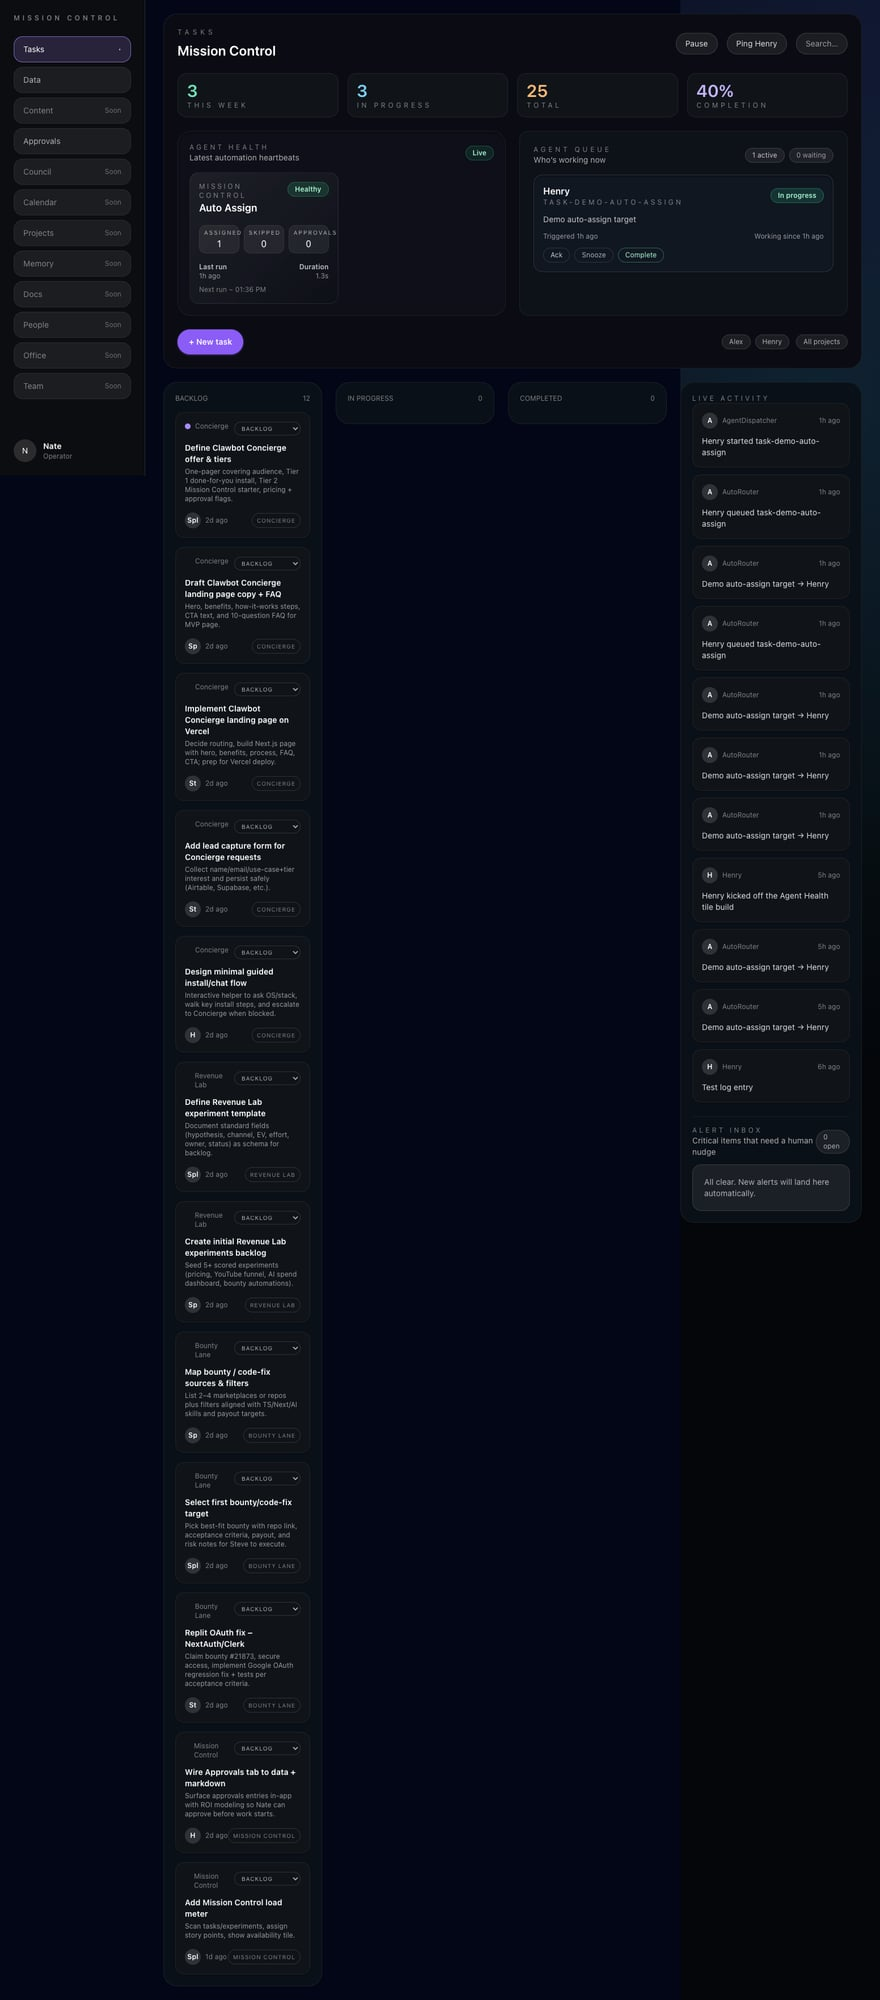
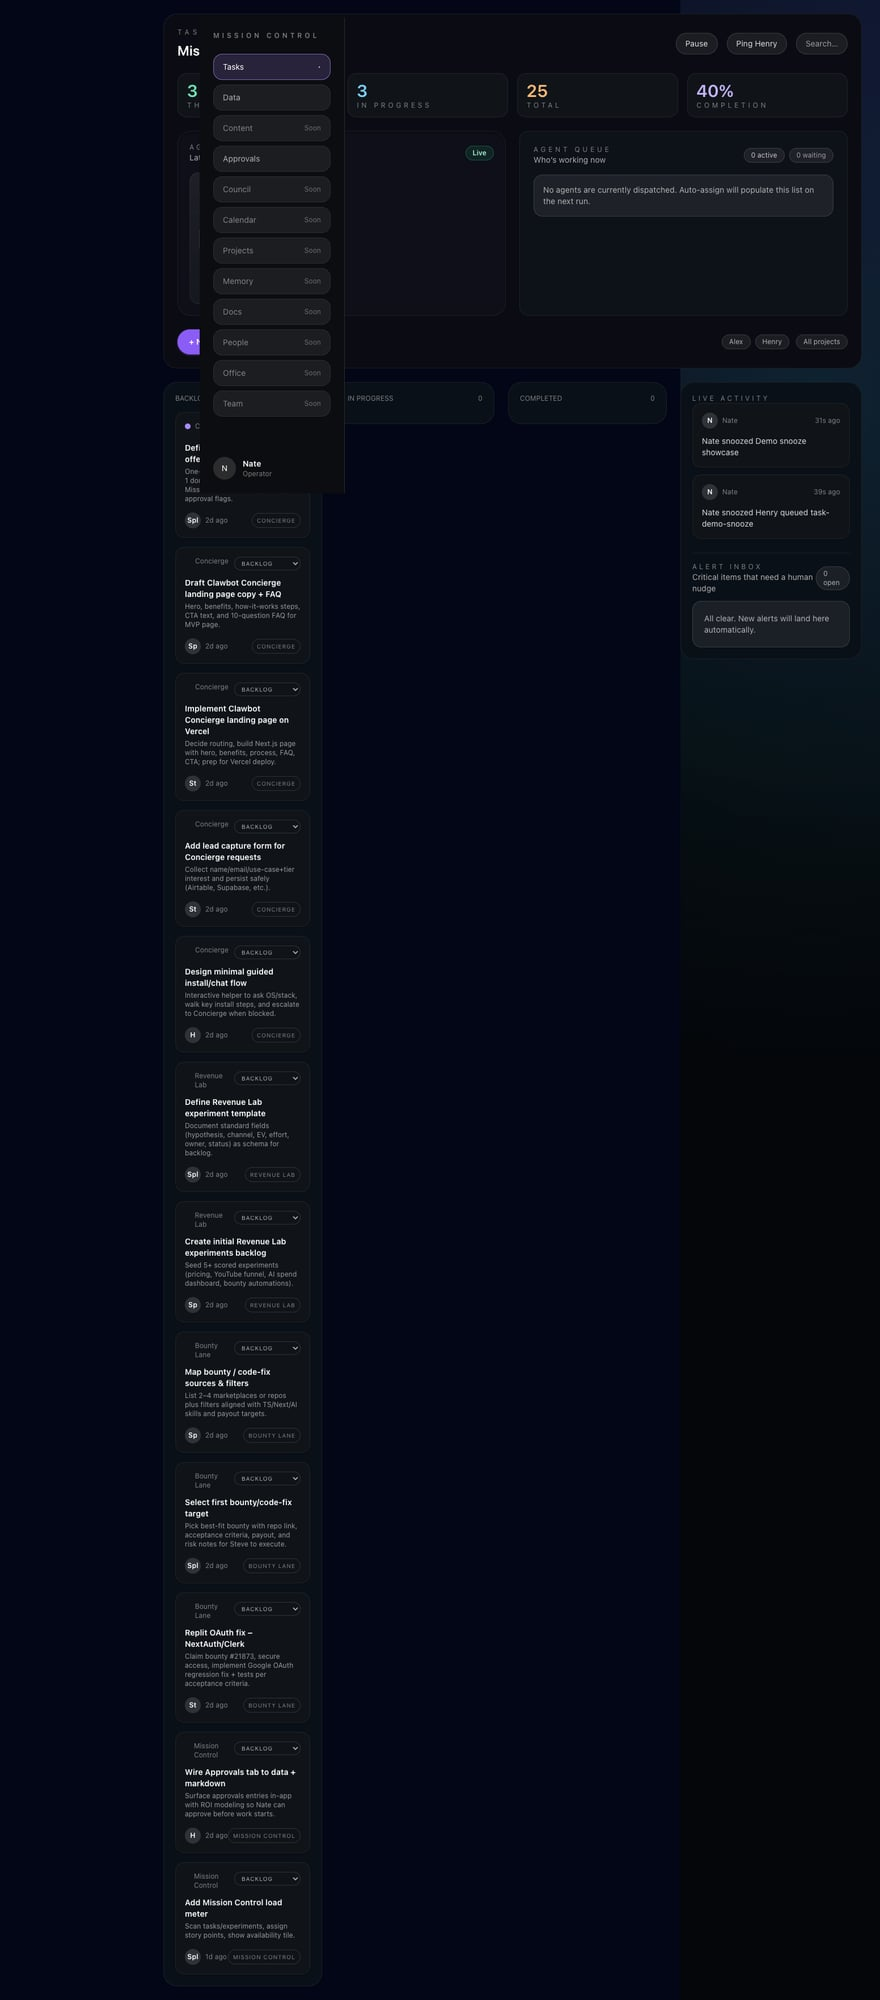
feat: log UI actions + snooze wakeups

diff --git a/mission-control/src/components/health/AgentWorkSessionsPanel.tsx b/mission-control/src/components/health/AgentWorkSessionsPanel.tsx
@@ -4,6 +4,8 @@ import type { AgentWorkSession } from "../../lib/data/workSessions";
 import { useState } from "react";
 import { logAction } from "../../lib/actions/logAction";
 
+type LocalActionEntry = { action: string; created_at: string; metadata?: Record<string, unknown> };
+
 function relativeTime(from: string) {
   const date = new Date(from);
   const diffMs = Date.now() - date.getTime();
@@ -14,6 +16,13 @@ function relativeTime(from: string) {
   if (hours < 24) return `${hours}h ago`;
   const days = Math.floor(hours / 24);
   return `${days}d ago`;
+}
+
+function formatAbsolute(from: string) {
+  return new Date(from).toLocaleTimeString(undefined, {
+    hour: "2-digit",
+    minute: "2-digit",
+  });
 }
 
 function statusStyles(status: string) {
@@ -31,7 +40,7 @@ function statusStyles(status: string) {
 export function AgentWorkSessionsPanel({ sessions }: { sessions: AgentWorkSession[] }) {
   const [hiddenIds, setHiddenIds] = useState<Set<string>>(new Set());
   const [pending, setPending] = useState<string | null>(null);
-  const [localActions, setLocalActions] = useState<Map<string, { action: string; created_at: string }>>(
+  const [localActions, setLocalActions] = useState<Map<string, LocalActionEntry>>(
     new Map()
   );
 
@@ -39,24 +48,37 @@ export function AgentWorkSessionsPanel({ sessions }: { sessions: AgentWorkSessio
   const activeCount = list.filter((session) => session.status === "started").length;
   const waitingCount = list.length - activeCount;
 
-  async function handleAction(id: string, action: "ack" | "snooze" | "complete") {
-    setPending(id);
+  async function handleAction(session: AgentWorkSession, action: "ack" | "snooze" | "complete") {
+    setPending(session.id);
+    const metadata: Record<string, unknown> = {
+      label: session.task_title ?? session.task_slug ?? session.task_id,
+      agent: session.agent_name,
+    };
+    if (action === "snooze") {
+      metadata.snooze_until = new Date(Date.now() + 30 * 60 * 1000).toISOString();
+    }
+
     try {
-      await logAction({ entityType: "agent_work_session", entityId: id, action });
-      const entry = { action, created_at: new Date().toISOString() };
+      await logAction({
+        entityType: "agent_work_session",
+        entityId: session.id,
+        action,
+        metadata,
+      });
+      const entry = { action, created_at: new Date().toISOString(), metadata };
       if (action === "complete") {
         setHiddenIds((prev) => {
           const next = new Set(prev);
-          next.add(id);
+          next.add(session.id);
           return next;
         });
       } else {
-        setLocalActions((prev) => new Map(prev).set(id, entry));
+        setLocalActions((prev) => new Map(prev).set(session.id, entry));
       }
     } catch (error) {
       console.error("Failed to log work session action", error);
     } finally {
-      setPending((current) => (current === id ? null : current));
+      setPending((current) => (current === session.id ? null : current));
     }
   }
 
@@ -108,6 +130,14 @@ export function AgentWorkSessionsPanel({ sessions }: { sessions: AgentWorkSessio
               {(() => {
                 const action = localActions.get(session.id) ?? session.lastAction;
                 if (!action) return null;
+                const snoozeUntil = action.metadata?.snooze_until as string | undefined;
+                if (snoozeUntil) {
+                  return (
+                    <p className="mt-1 text-xs text-amber-300">
+                      Snoozed until {formatAbsolute(snoozeUntil)}
+                    </p>
+                  );
+                }
                 return (
                   <p className="mt-1 text-xs text-white/40">
                     Last action: {action.action} at {relativeTime(action.created_at)}
@@ -126,21 +156,21 @@ export function AgentWorkSessionsPanel({ sessions }: { sessions: AgentWorkSessio
                 <button
                   className="rounded-full border border-white/10 px-3 py-1 text-white/70 disabled:opacity-40"
                   disabled={pending === session.id}
-                  onClick={() => handleAction(session.id, "ack")}
+                  onClick={() => handleAction(session, "ack")}
                 >
                   Ack
                 </button>
                 <button
                   className="rounded-full border border-white/10 px-3 py-1 text-white/60 disabled:opacity-40"
                   disabled={pending === session.id}
-                  onClick={() => handleAction(session.id, "snooze")}
+                  onClick={() => handleAction(session, "snooze")}
                 >
                   Snooze
                 </button>
                 <button
                   className="rounded-full border border-emerald-400/40 px-3 py-1 text-emerald-200 disabled:opacity-40"
                   disabled={pending === session.id}
-                  onClick={() => handleAction(session.id, "complete")}
+                  onClick={() => handleAction(session, "complete")}
                 >
                   Complete
                 </button>

diff --git a/mission-control/src/components/alerts/AlertInbox.tsx b/mission-control/src/components/alerts/AlertInbox.tsx
@@ -36,19 +36,28 @@ export function AlertInbox({ alerts }: { alerts: AlertItem[] }) {
 
   const visibleAlerts = alerts.filter((alert) => !hiddenIds.has(alert.id));
 
-  async function handleAction(alertId: string, action: "ack" | "snooze") {
-    setPending(alertId);
+  async function handleAction(alert: AlertItem, action: "ack" | "snooze") {
+    setPending(alert.id);
+    const metadata: Record<string, unknown> = {
+      label: alert.title,
+      source: alert.source,
+      severity: alert.severity,
+    };
+    if (action === "snooze") {
+      metadata.snooze_until = new Date(Date.now() + 30 * 60 * 1000).toISOString();
+    }
+
     try {
-      await logAction({ entityType: "alert", entityId: alertId, action });
+      await logAction({ entityType: "alert", entityId: alert.id, action, metadata });
       setHiddenIds((prev) => {
         const next = new Set(prev);
-        next.add(alertId);
+        next.add(alert.id);
         return next;
       });
     } catch (error) {
       console.error("Failed to log alert action", error);
     } finally {
-      setPending((current) => (current === alertId ? null : current));
+      setPending((current) => (current === alert.id ? null : current));
     }
   }
 
@@ -93,25 +102,35 @@ export function AlertInbox({ alerts }: { alerts: AlertItem[] }) {
               </span>
             </header>
             {alert.description && <p className="mt-3 text-white/70">{alert.description}</p>}
-            {alert.lastAction && (
-              <p className="mt-1 text-xs text-white/40">
-                Last action: {alert.lastAction.action} at {formatTimestamp(alert.lastAction.created_at)}
-              </p>
-            )}
+            {alert.lastAction && (() => {
+              const snoozeUntil = alert.lastAction.metadata?.snooze_until as string | undefined;
+              if (snoozeUntil) {
+                return (
+                  <p className="mt-1 text-xs text-amber-300">
+                    Snoozed until {formatTimestamp(snoozeUntil)}
+                  </p>
+                );
+              }
+              return (
+                <p className="mt-1 text-xs text-white/40">
+                  Last action: {alert.lastAction.action} at {formatTimestamp(alert.lastAction.created_at)}
+                </p>
+              );
+            })()}
             <div className="mt-3 flex items-center justify-between text-xs text-white/40">
               <span>{formatTimestamp(alert.timestamp)}</span>
               <div className="flex gap-2">
                 <button
                   className="rounded-full border border-white/10 px-3 py-1 text-white/70 disabled:opacity-40"
                   disabled={pending === alert.id}
-                  onClick={() => handleAction(alert.id, "ack")}
+                  onClick={() => handleAction(alert, "ack")}
                 >
                   Ack
                 </button>
                 <button
                   className="rounded-full border border-white/10 px-3 py-1 text-white/50 disabled:opacity-40"
                   disabled={pending === alert.id}
-                  onClick={() => handleAction(alert.id, "snooze")}
+                  onClick={() => handleAction(alert, "snooze")}
                 >
                   Snooze
                 </button>

diff --git a/mission-control/src/lib/data/workSessions.ts b/mission-control/src/lib/data/workSessions.ts
@@ -10,7 +10,7 @@ export type AgentWorkSession = {
   triggered_at: string;
   started_at: string | null;
   completed_at: string | null;
-  lastAction?: { action: string; created_at: string };
+  lastAction?: { action: string; created_at: string; metadata?: Record<string, unknown> | null };
 };
 
 export async function getActiveWorkSessions(limit = 6): Promise<AgentWorkSession[]> {
@@ -37,16 +37,16 @@ export async function getActiveWorkSessions(limit = 6): Promise<AgentWorkSession
   const ids = sessions.map((session) => session.id);
   const actionLog = await client
     .from("action_log")
-    .select("entity_id, action, created_at")
+    .select("entity_id, action, created_at, metadata")
     .eq("entity_type", "agent_work_session")
     .in("entity_id", ids);
 
-  const latestAction = new Map<string, { action: string; created_at: string }>();
+  const latestAction = new Map<string, { action: string; created_at: string; metadata?: Record<string, unknown> }>();
   if (!actionLog.error && actionLog.data) {
     for (const entry of actionLog.data) {
       const current = latestAction.get(entry.entity_id);
       if (!current || new Date(entry.created_at) > new Date(current.created_at)) {
-        latestAction.set(entry.entity_id, entry);
+        latestAction.set(entry.entity_id, entry as { action: string; created_at: string; metadata?: Record<string, unknown> });
       }
     }
   }
@@ -54,8 +54,15 @@ export async function getActiveWorkSessions(limit = 6): Promise<AgentWorkSession
   return sessions
     .filter((session) => {
       const action = latestAction.get(session.id);
-      if (action && action.action === "complete") {
+      if (!action) return true;
+      if (action.action === "complete") {
         return false;
+      }
+      if (action.action === "snooze") {
+        const snoozeUntil = action.metadata?.snooze_until as string | undefined;
+        if (snoozeUntil && new Date(snoozeUntil).getTime() > Date.now()) {
+          return false;
+        }
       }
       return true;
     })

diff --git a/mission-control/src/lib/data/alerts.ts b/mission-control/src/lib/data/alerts.ts
@@ -12,6 +12,7 @@ export type AlertItem = {
   lastAction?: {
     action: string;
     created_at: string;
+    metadata?: Record<string, unknown> | null;
   };
 };
 
@@ -77,17 +78,17 @@ export async function getAlertInbox(limit = 10): Promise<AlertItem[]> {
   const ids = alerts.map((alert) => alert.id);
   const actionLog = await client
     .from("action_log")
-    .select("entity_id, action, created_at")
+    .select("entity_id, action, created_at, metadata")
     .eq("entity_type", "alert")
     .in("entity_id", ids);
 
-  const latestAction = new Map<string, { action: string; created_at: string }>();
+  const latestAction = new Map<string, { action: string; created_at: string; metadata?: Record<string, unknown> }>();
 
   if (!actionLog.error && actionLog.data) {
     for (const entry of actionLog.data) {
       const current = latestAction.get(entry.entity_id);
       if (!current || new Date(entry.created_at) > new Date(current.created_at)) {
-        latestAction.set(entry.entity_id, entry);
+        latestAction.set(entry.entity_id, entry as { action: string; created_at: string; metadata?: Record<string, unknown> });
       }
     }
   }
@@ -102,9 +103,17 @@ export async function getAlertInbox(limit = 10): Promise<AlertItem[]> {
         return false;
       }
       if (action.action === "snooze") {
-        const age = now - new Date(action.created_at).getTime();
-        if (age < SNOOZE_WINDOW_MS) {
-          return false;
+        const snoozeUntil = (action.metadata?.snooze_until as string | undefined) ?? null;
+        if (snoozeUntil) {
+          const resumeAt = new Date(snoozeUntil).getTime();
+          if (resumeAt > now) {
+            return false;
+          }
+        } else {
+          const age = now - new Date(action.created_at).getTime();
+          if (age < SNOOZE_WINDOW_MS) {
+            return false;
+          }
         }
       }
       alert.lastAction = action;

diff --git a/mission-control/src/lib/actions/logAction.ts b/mission-control/src/lib/actions/logAction.ts
@@ -2,6 +2,25 @@ import { getSupabaseClient } from "../supabase/client";
 
 export type LoggableAction = "ack" | "snooze" | "complete";
 
+const EVENT_TYPE_MAP: Record<string, Record<LoggableAction, string>> = {
+  alert: {
+    ack: "alert_acknowledged",
+    snooze: "alert_snoozed",
+    complete: "alert_completed",
+  },
+  agent_work_session: {
+    ack: "agent_work_acknowledged",
+    snooze: "agent_work_snoozed",
+    complete: "agent_work_completed",
+  },
+};
+
+const ACTION_VERB: Record<LoggableAction, string> = {
+  ack: "acknowledged",
+  snooze: "snoozed",
+  complete: "completed",
+};
+
 export async function logAction({
   entityType,
   entityId,
@@ -18,15 +37,35 @@ export async function logAction({
     throw new Error("Supabase client is not configured");
   }
 
-  const { error } = await client.from("action_log").insert({
+  const payload = {
     entity_type: entityType,
     entity_id: entityId,
     action,
     actor: "Nate",
     metadata: metadata ?? {},
-  });
+  };
+
+  const { error } = await client.from("action_log").insert(payload);
 
   if (error) {
     throw new Error(error.message);
+  }
+
+  const eventType = EVENT_TYPE_MAP[entityType]?.[action] ?? `${entityType}_${action}`;
+  const label = (metadata?.label as string | undefined) ?? entityId;
+  const summary = `Nate ${ACTION_VERB[action]} ${label}`;
+
+  const { error: activityError } = await client.from("activity_log").insert({
+    event_type: eventType,
+    source: "ui-action",
+    actor: "Nate",
+    summary,
+    entity_type: entityType,
+    entity_id: entityId,
+    metadata: { action, ...(metadata ?? {}) },
+  });
+
+  if (activityError) {
+    console.error("Failed to write activity log entry", activityError);
   }
 }
